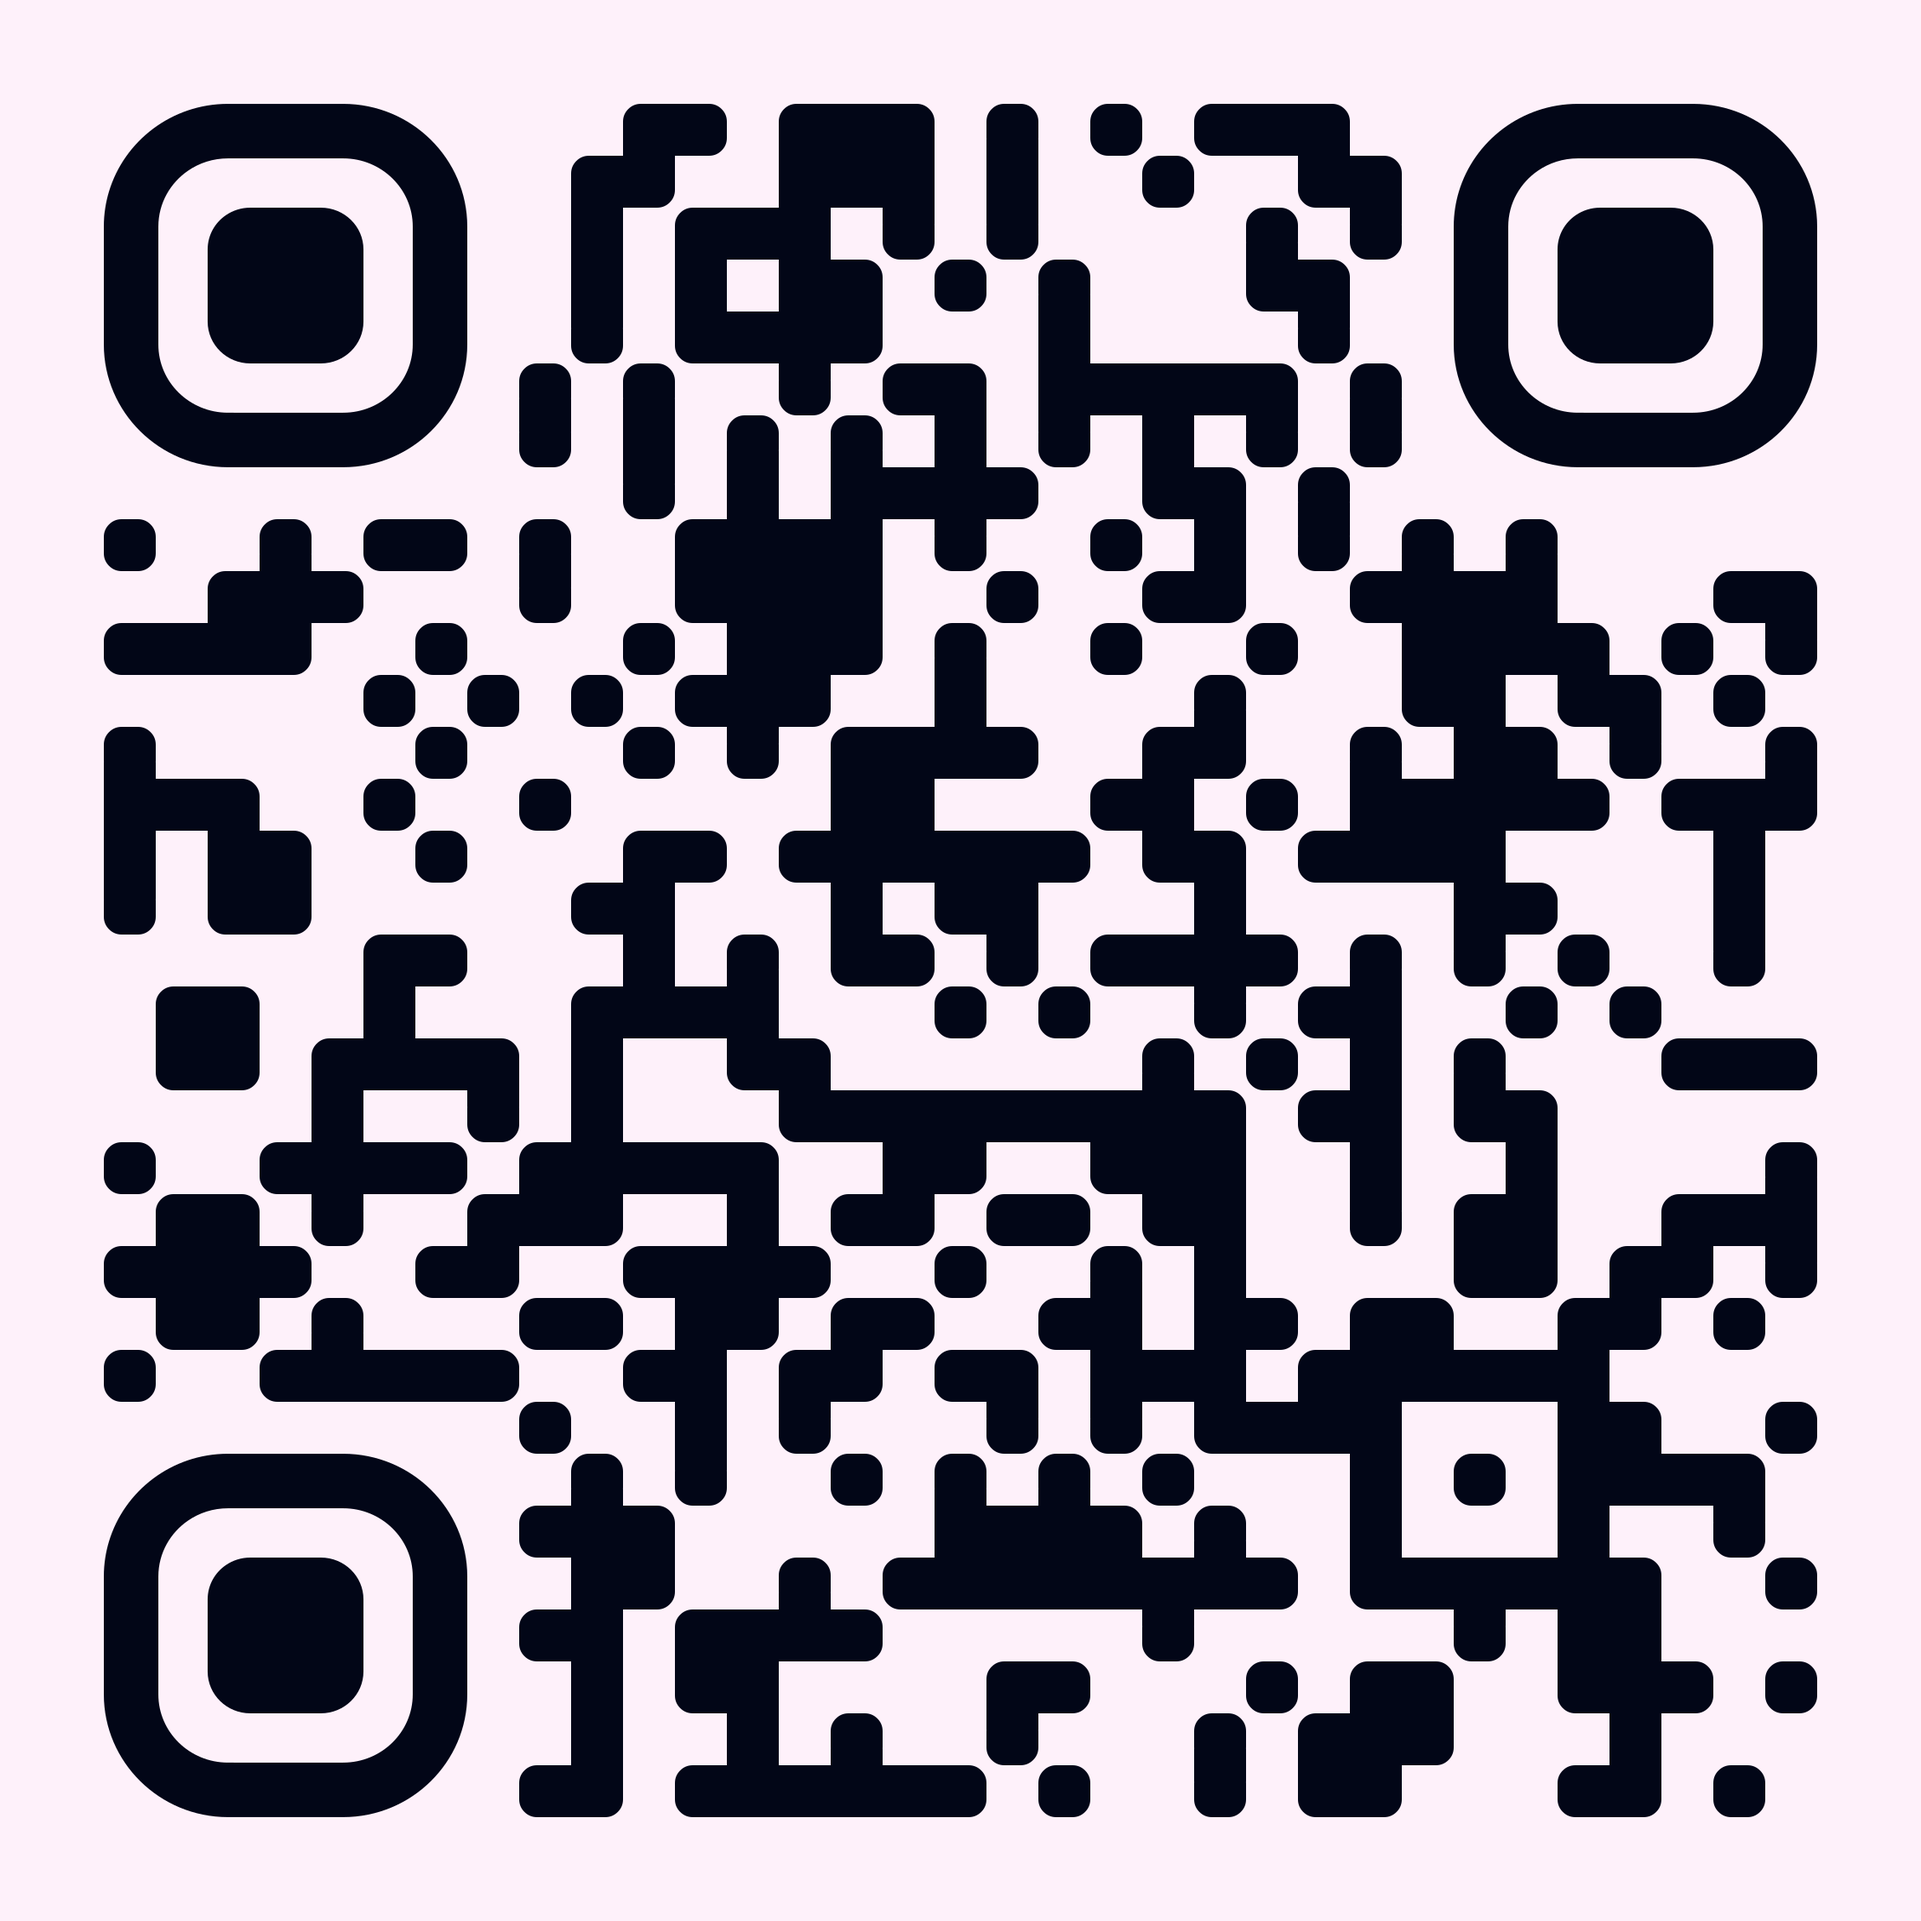
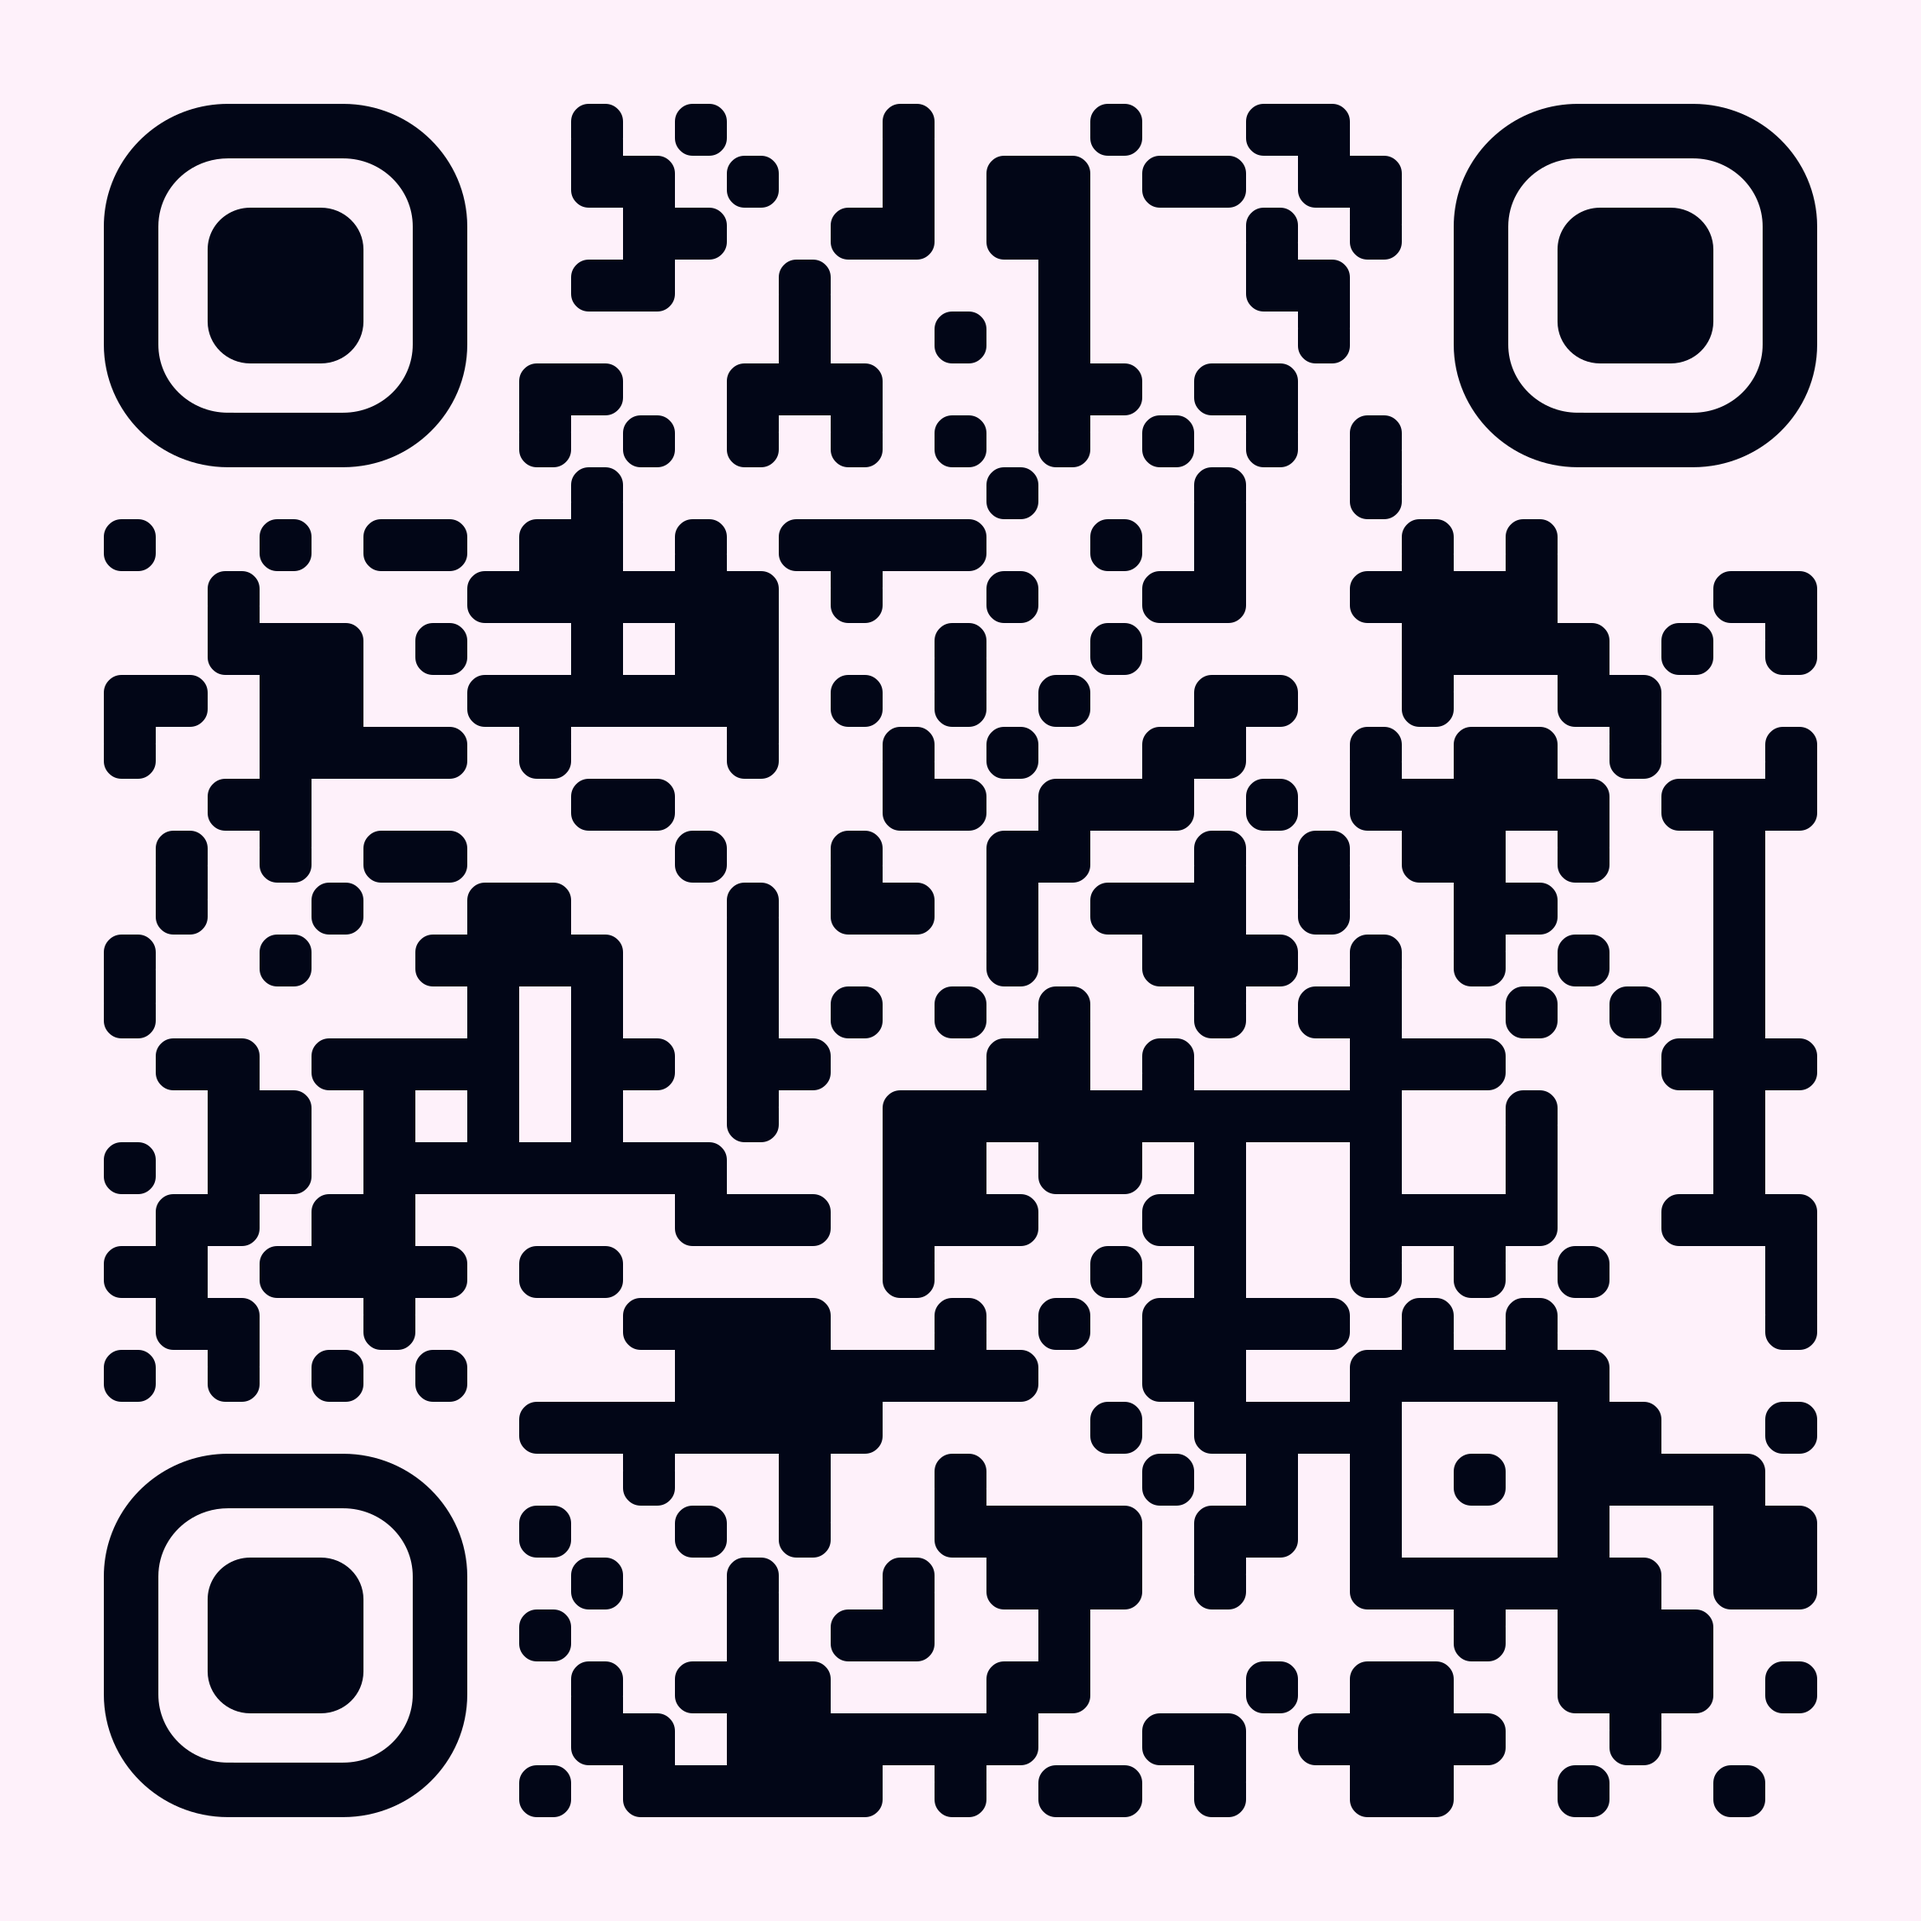
refactor: update slides

diff --git a/slides.md b/slides.md
@@ -3,7 +3,7 @@
 theme: default
 # background: "black"
 # some information about your slides, markdown enabled
-exportFilename: bandada-ethrome-2024
+exportFilename: bandada-precon-2024
 fonts:
   # basically the text
   sans: Poppins
@@ -11,10 +11,10 @@ fonts:
   serif: Poppins
   # for code blocks, inline code, etc.
   mono: Fira Code
-title: Building with Bandada
+title: Bandada
 info: |
-  ## Bandada ETHRome 2024
-  Presentation slides for ETHRome 2024.
+  ## Bandada Precon 2024
+  Presentation slides for Precon 2024.
 
   Learn more at [Bandada](https://bandada.pse.dev)
 # apply any unocss classes to the current slide
@@ -32,7 +32,7 @@ hideInToc: true
 favicon: "./favicon.svg"
 ---
 
-# Building with Bandada
+# Bandada
 
 <div class="text-25px opacity-85">
 Vivian Plasencia
@@ -45,7 +45,7 @@ Vivian Plasencia
 />
 
 <div class="abs-b mb-12 ml-6 flex text-12px opacity-70">
-  <p>ETHRome 2024</p>
+  <p>Precon 2024</p>
 </div>
 
 <div class="abs-b m-6 flex text-12px opacity-70">
@@ -53,7 +53,7 @@ Vivian Plasencia
 </div>
 
 <div class="abs-br m-6">
-  <a href="https://github.com/vplasencia/ethrome-2024-bandada-slides" target="_blank" alt="GitHub" title="Open in GitHub"
+  <a href="https://github.com/vplasencia/precon-2024-bandada-slides" target="_blank" alt="GitHub" title="Open in GitHub"
     class="text-xl slidev-icon-btn opacity-50 !border-none !hover:text-[eb179b]">
     <carbon-logo-github />
   </a>
@@ -175,9 +175,9 @@ transition: slide-up
 | Functionalities             | Off-chain | On-chain |
 | --------------------------- | --------- | -------- |
 | Create group(s)             | ✅        | ✅       |
-| Update group(s)             | ✅        | ❌       |
+| Update group(s)             | ✅        | N/A      |
 | Remove group(s)             | ✅        | N/A      |
-| Invite code to join a group | ✅        | ❌       |
+| Invite code to join a group | ✅        | Testing  |
 | Credentials to join a group | ✅        | ❌       |
 | Add member(s)               | ✅        | ✅       |
 | Remove member(s)            | ✅        | ✅       |
@@ -334,36 +334,6 @@ transition: slide-up
 hideInToc: true
 ---
 
-# API SDK Example
-
-```ts {all|1-3|5-14|16-18|20|all}
-import { ApiSdk, GroupCreationDetails } from "@bandada/api-sdk"
-
-const apiSdk = new ApiSdk()
-
-const apiKey = "70f07d0d-6aa2-4fe1-b4b9-06c271a641dc"
-
-const groupCreationDetails: GroupCreationDetails = {
-  name: "Group 1",
-  description: "This is Group 1",
-  treeDepth: 16,
-  fingerprintDuration: 3600
-}
-
-const group = await apiSdk.createGroup(groupCreationDetails, apiKey)
-
-const members = ["1", "2", "3"]
-
-await apiSdk.addMembersByApiKey(group.id, members, apiKey)
-
-await apiSdk.removeMemberByApiKey(group.id, "1", apiKey)
-```
-
----
-transition: slide-up
-hideInToc: true
----
-
 # Installing packages manually
 
 <br>
@@ -421,17 +391,6 @@ You can fork it, clone it or use it as a template:
 
 ---
 transition: slide-left
-layout: center
----
-
-<img
-  class="center w-[38rem]"
-  src="/bandada-semaphore-off-chain-app-architecture.svg"
-  alt="Bandada Semaphore off-chain app architecture"
-/>
-
----
-transition: slide-left
 ---
 
 # Roadmap
@@ -449,33 +408,6 @@ transition: slide-left
 - Build a modular architecture that supports several data structures and different types of groups.
 
 [github.com/orgs/bandada-infra/discussions/350](https://github.com/orgs/bandada-infra/discussions/350)
-
----
-transition: slide-up
-layout: two-cols
-layoutClass: gap-16
----
-
-# Hacker Guide
-
-<br>
-
-Document with the main Bandada information and links for hackers.
-
-<img
-  class="w-[12rem] rounded-md"
-  src="/bandada-hackathon-guide-qrcode.png"
-  alt="Bandada hackathon guide qrcode"
-/>
-
-[bandada.pse.dev/hackathon-guide](https://bandada.pse.dev/hackathon-guide)
-
-::right::
-
-<img
-  src="/bandada-birds.svg"
-  alt="Bandada birds"
-/>
 
 ---
 transition: slide-left
@@ -496,7 +428,7 @@ This presentation is open source, you can check the slides and code.
   alt="Presentation qrcode"
 />
 
-[vplasencia.github.io/ethrome-2024-bandada-slides](https://vplasencia.github.io/ethrome-2024-bandada-slides)
+[vplasencia.github.io/precon-2024-bandada-slides](https://vplasencia.github.io/precon-2024-bandada-slides)
 
 ::right::
 
